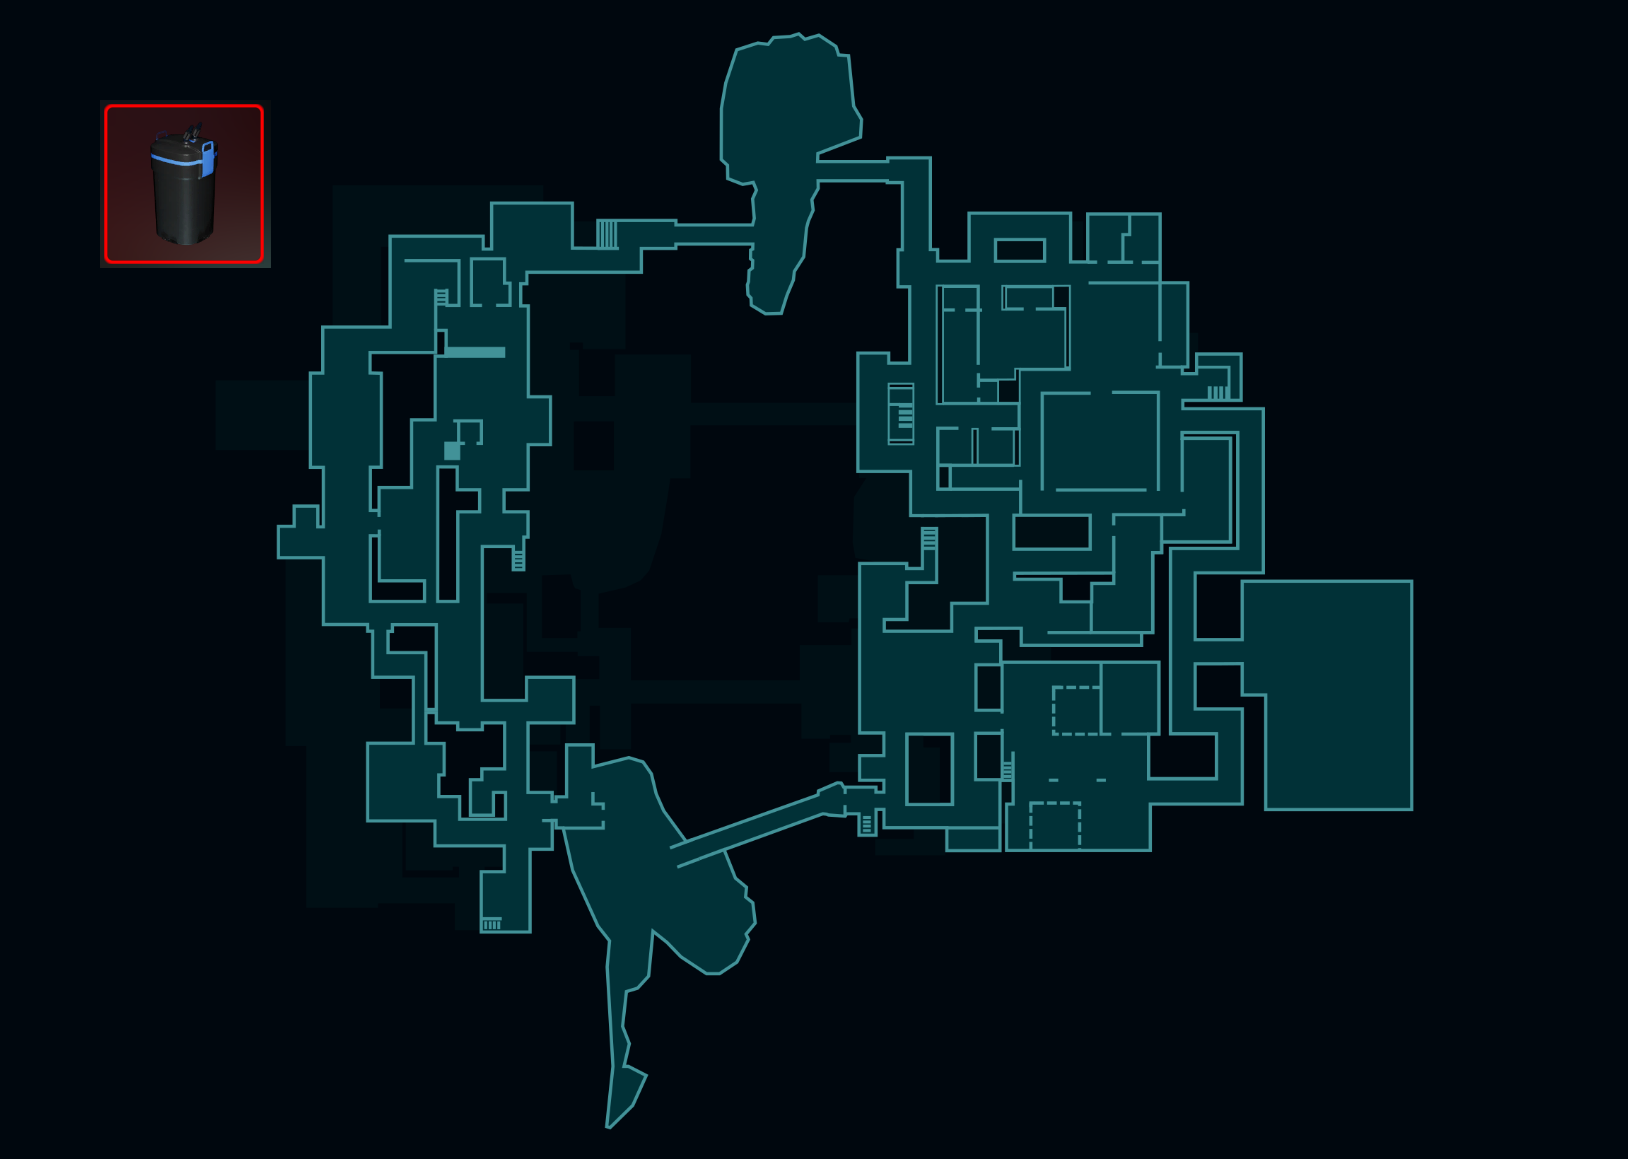
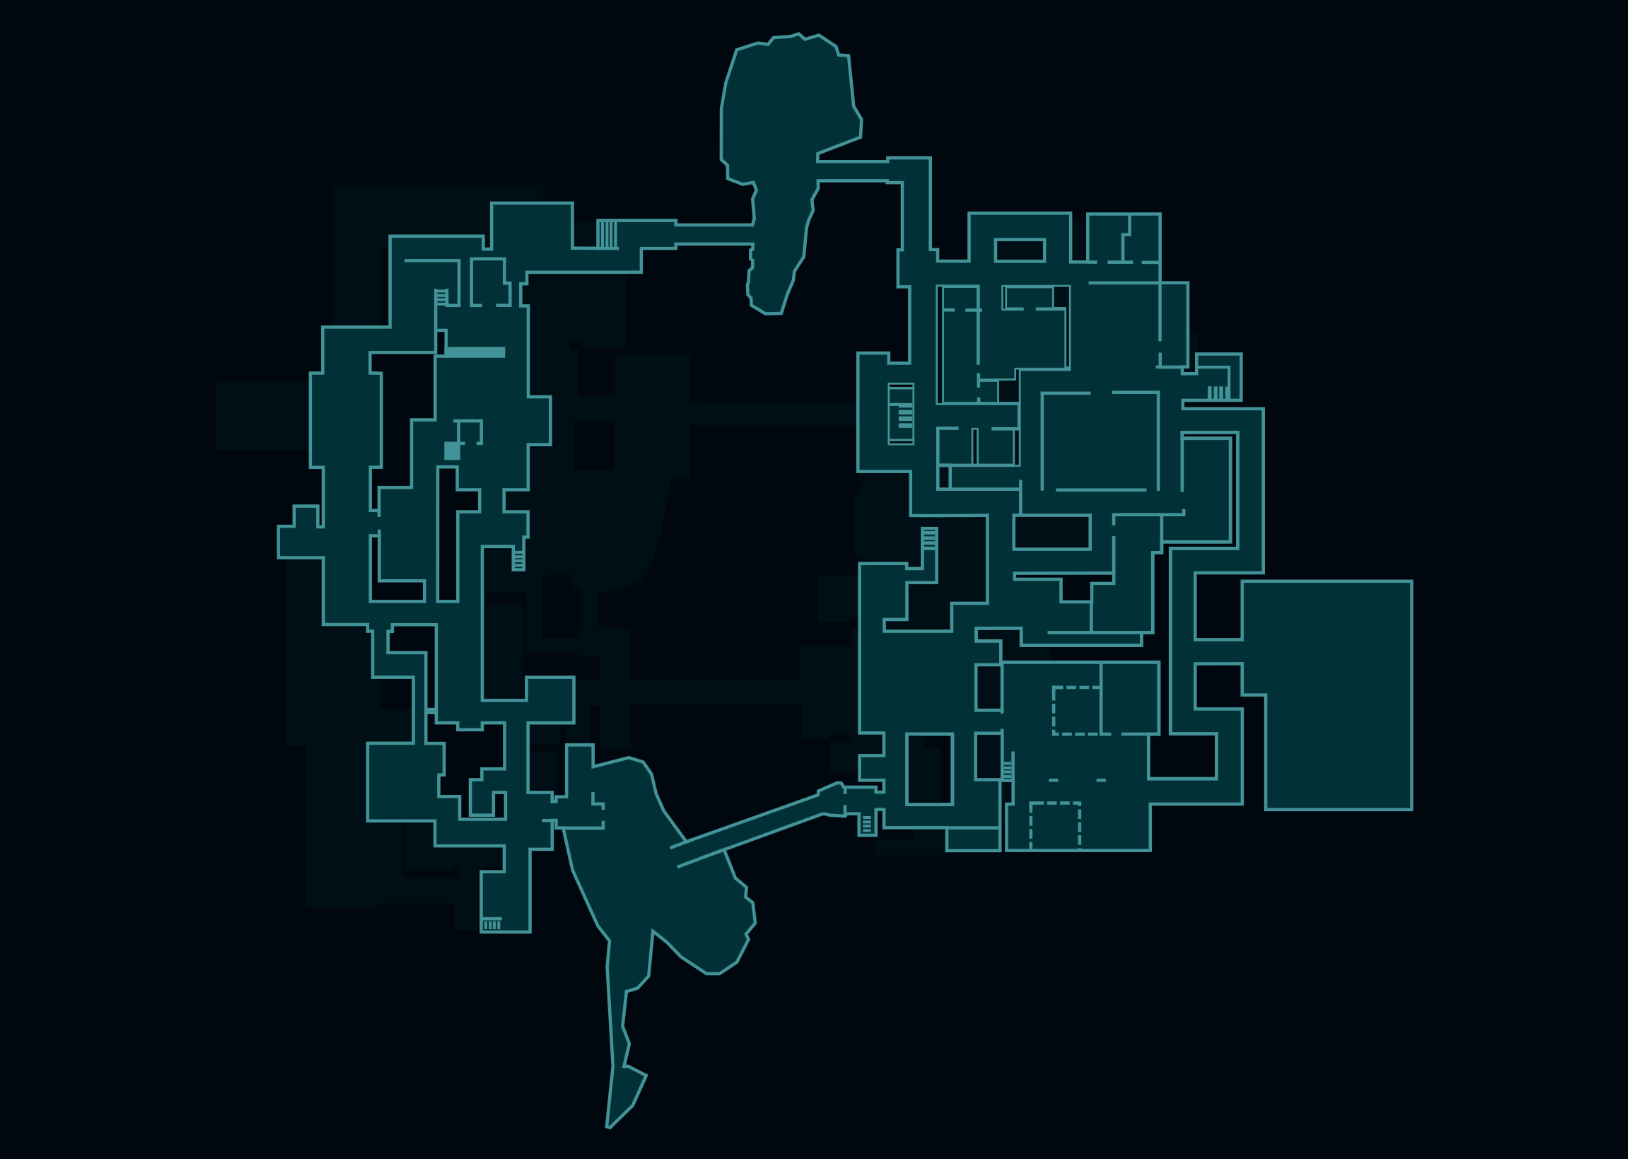
feat: added basic coordinate feature to display contract images

Changed region(s): [[0.0614, 0.0621, 0.1843, 0.2485]]

diff --git a/src/lzcm/statics.py b/src/lzcm/statics.py
@@ -8,20 +8,36 @@ LZCM_TMP_MAP_PATH = os.path.join(LZCM_RESOURCE_PATH, "tmp.png")
 
 SCALE_FACTOR = 1.25
 
+class Contract:
+    def __init__(self, name: str, level: int, image_name: str, coordinates: tuple[int]):
+        self.name = name
+        self.level = level
+        self.image_name = image_name
+        self.coordinates = coordinates
+
 RS_CONTRACT_LIST = [
-    ('Blue Passport', 'RS_blue_passport.png'),
-    ('Console', 'RS_console.png'),
-    ('Data Drive', 'RS_data_drive.png'),
-    ('Drug Stash Snowmobile', 'RS_drugs_snow.png'),
-    ('Filter', 'RS_filter.png'),
-    ('Hard Drive', 'RS_hard_drive.png'),
-    ('Lucky Bullet', 'RS_lucky_bullet.png'),
-    ('Personnel Data', 'RS_personnel_data.png'),
-    ('Petri Dish', 'RS_petri_dish.png'),
-    ('Photo Friend', 'RS_photo_friend.png'),
-    ('Red Passport', 'RS_red_passport.png'),
-    ('Research Document', 'RS_research_documents.png'),
-    ('Stamp', 'RS_stamp.png'),
-    ('Weapon Case', 'RS_weapon_case.png'),
-    ('Yellow ID', 'RS_yellow_id.png')
+    Contract('Art',                     1, 'RS_art.png',                (100, 100)),
+    Contract('Bass',                    0, 'RS_bass.png',               (100, 100)),
+    Contract('Bronze Bull',             1, 'RS_bull.png',               (100, 100)),
+    Contract('Blue Passport',           0, 'RS_blue_passport.png',      (100, 100)),
+    Contract('Console',                 1, 'RS_console.png',            (100, 100)),
+    Contract('Data Drive',              1, 'RS_data_drive.png',         (100, 100)),
+    Contract('Drug Stash',              1, 'RS_drugs_t.png',            (100, 100)),
+    Contract('Drug Stash Bridge',       0, 'RS_drugs_bridge.png',       (100, 100)),
+    Contract('Drug Stash Snowmobile',   0, 'RS_drugs_snow.png',         (100, 100)),
+    Contract('Filter',                  0, 'RS_filter.png',             (100, 100)),
+    Contract('Hard Drive',              1, 'RS_hard_drive.png',         (100, 100)),
+    Contract('Lucky Bullet',            1, 'RS_lucky_bullet.png',       (100, 100)),
+    Contract('Personnel Data',          1, 'RS_personnel_data.png',     (100, 100)),
+    Contract('Petri Dish',              1, 'RS_petri_dish.png',         (100, 100)),
+    Contract('Photo Friend',            0, 'RS_photo_friend.png',       (100, 100)),
+    Contract('Red ID',                  1, 'RS_red_id.png',             (100, 100)),
+    Contract('Red Passport',            1, 'RS_red_passport.png',       (100, 100)),
+    Contract('Research Document',       0, 'RS_research_documents.png', (100, 100)),
+    Contract('Stamp',                   0, 'RS_stamp.png',              (100, 100)),
+    Contract('Tablet',                  0, 'RS_tablet.png',             (100, 100)),
+    Contract('Vial',                    0, 'RS_vial.png',               (100, 100)),
+    Contract('Weapon Case',             1, 'RS_weapon_case.png',        (100, 100)),
+    Contract('X-Ray',                   1, 'RS_xray.png',               (100, 100)),
+    Contract('Yellow ID',               1, 'RS_yellow_id.png',          (100, 100))
 ]

diff --git a/src/lzcm/main_window.py b/src/lzcm/main_window.py
@@ -9,11 +9,13 @@ from PyQt5.QtWidgets import QWidget
 
 from .contract_selector import ContractSelector
 from .photo_viewer import PhotoViewer
-from .statics import LZCM_RESOURCE_PATH, LZCM_RS_L0_PATH, LZCM_TMP_MAP_PATH
+from .statics import LZCM_RESOURCE_PATH, LZCM_RS_L0_PATH, LZCM_TMP_MAP_PATH, RS_CONTRACT_LIST
 
 class MainWindow(QWidget):
     def __init__(self):
         super().__init__()
+        
+        self.contract_display_list = []
 
         self.setWindowTitle("Python")
         
@@ -24,9 +26,12 @@ class MainWindow(QWidget):
         
         self.contract_selection_bar = ContractSelector(self, self.contract_toggled)
         
-        self.map_viewer = PhotoViewer(self)
+        # initialize map & tmp map
+        base_map = Image.open(LZCM_RS_L0_PATH)        
+        base_map.save(LZCM_TMP_MAP_PATH)
         
-        self.init_map()
+        self.map_viewer = PhotoViewer(self)
+        self.map_viewer.setPhoto(QPixmap(LZCM_TMP_MAP_PATH))
 
         main_layout.addWidget(self.contract_selection_bar)
         main_layout.addWidget(self.map_viewer)
@@ -38,25 +43,26 @@ class MainWindow(QWidget):
 
         # show all the widgets
         self.show()
-
-    def contract_toggled(self, b):
-        print(f"{b.text()} {b.isChecked()}")
-        self.refresh_map([])
     
-    def init_map(self):
-        base_map = Image.open(LZCM_RS_L0_PATH)
+    def contract_toggled(self, b):        
+        if b.isChecked() and b not in self.contract_display_list:
+            for contract in RS_CONTRACT_LIST:
+                if b.text() == contract.name:
+                    self.contract_display_list.append(contract)
+                    break
+        else:
+            self.contract_display_list = [contract for contract in self.contract_display_list if contract.name != b.text()]
         
-        base_map.save(LZCM_TMP_MAP_PATH)
-        
-        self.map_viewer.setPhoto(QPixmap(LZCM_TMP_MAP_PATH))
+        self.refresh_map()
     
-    def refresh_map(self, contract_list: list):
-        base_map = Image.open(LZCM_RS_L0_PATH)
+    def refresh_map(self):
+        tmp_map = Image.open(LZCM_RS_L0_PATH)
 
-        contract_image = Image.open(os.path.join(LZCM_RESOURCE_PATH, "RS_contracts" , "RS_filter.png"))
+        for contract in self.contract_display_list:
+            contract_image = Image.open(os.path.join(LZCM_RESOURCE_PATH, "RS_contracts" , contract.image_name))
 
-        base_map.paste(contract_image, (100, 100), contract_image)
+            tmp_map.paste(contract_image, contract.coordinates, contract_image)
 
-        base_map.save(LZCM_TMP_MAP_PATH)
+        tmp_map.save(LZCM_TMP_MAP_PATH)
         
         self.map_viewer.setPhoto(QPixmap(LZCM_TMP_MAP_PATH))

diff --git a/src/lzcm/contract_selector.py b/src/lzcm/contract_selector.py
@@ -43,7 +43,7 @@ class ContractSelector(QWidget):
         self.scroll = QScrollArea(self)
         
         for contract in RS_CONTRACT_LIST:
-            btn = ContractCheckBox(self, contract[0], os.path.join(LZCM_RESOURCE_PATH, "RS_contracts", contract[1]), toggled_checkbox_connect)
+            btn = ContractCheckBox(self, contract.name, os.path.join(LZCM_RESOURCE_PATH, "RS_contracts", contract.image_name), toggled_checkbox_connect)
             self.button_vertical_box.addWidget(btn)
 
         holder = QWidget()
